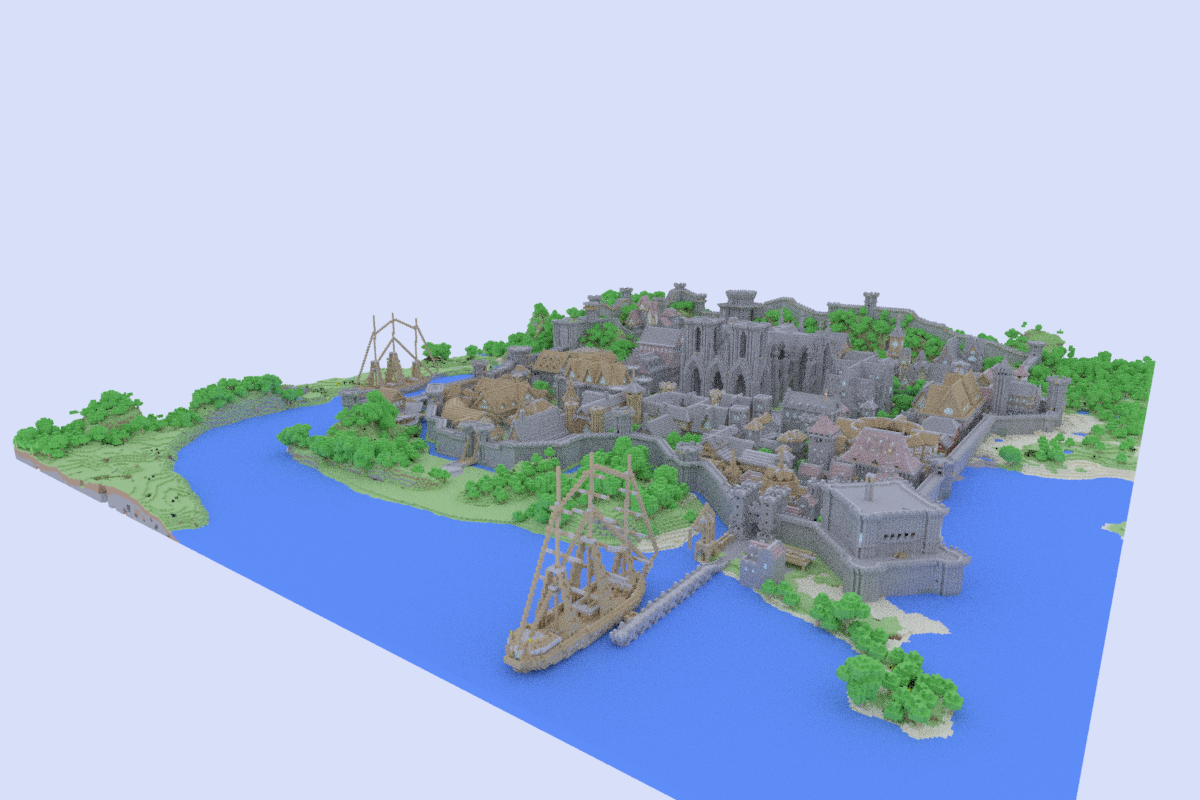
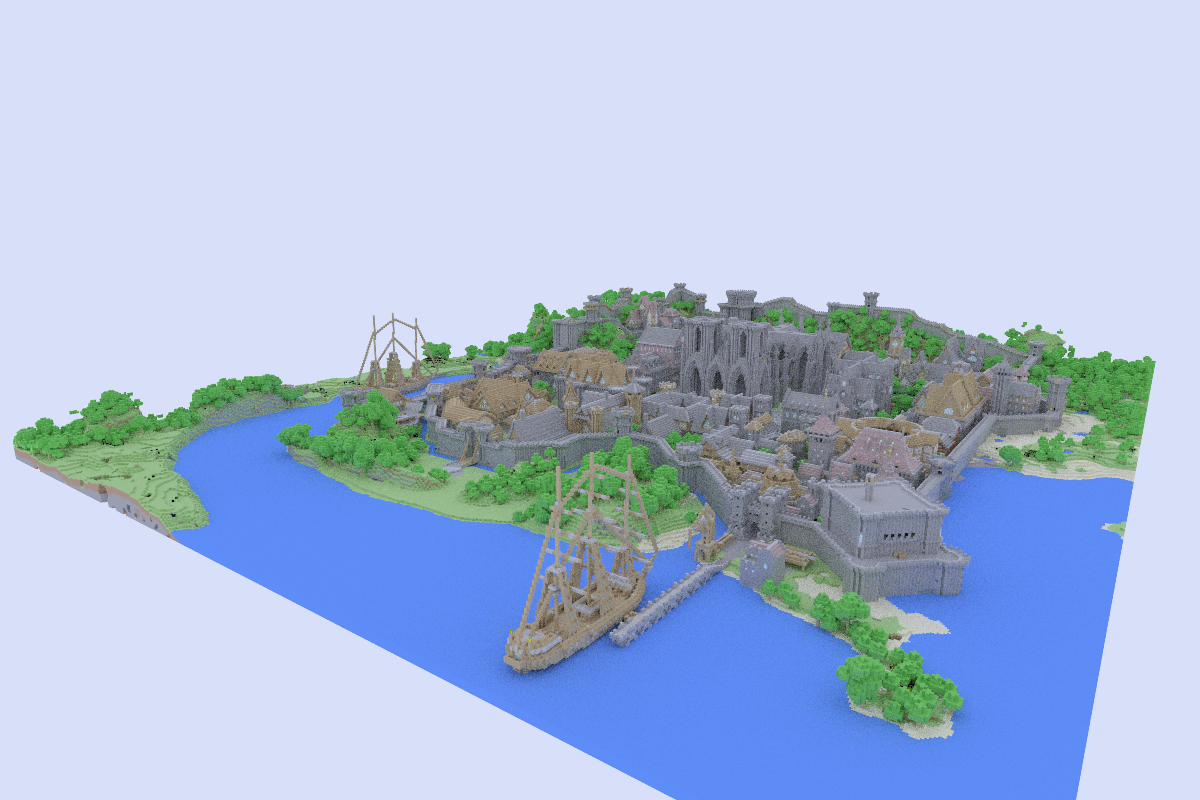
Update Rungholt render

diff --git a/pa3/README.md b/pa3/README.md
@@ -66,7 +66,7 @@ The following are several [Cornell Box](https://en.wikipedia.org/wiki/Cornell_bo
 
 Here are several more renderings of scenes from the [Williams graphics dataset ](http://graphics.cs.williams.edu/data/meshes.xml) website. These use unmodified original geometry and materials that can be downloaded from the provided link but config files with camera positions and environment lighting presets are available in the [config](config) directory.
 
-| Lost Empire - 250 Samples | Rungholt - 64 Samples |
+| Lost Empire - 250 Samples | Rungholt - 32 Samples |
 |:--------------------:|:--------------------:|
 |![](images/lost-empire.png)|![](images/rungholt.png)|
 
